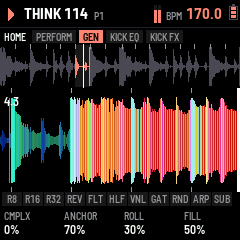
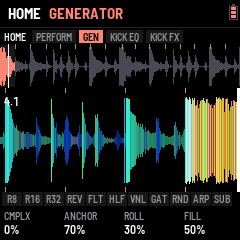
LOAF BREAKER: HOME's PERFORM and GENERATOR show the CDJ waveform by default; HOME held: the slices
Claude-Session: https://claude.ai/code/session_01SezACdoJJxH9cT2JHvLkit

diff --git a/app/ui/main.c b/app/ui/main.c
@@ -336,13 +336,6 @@ static void input(void)
             ui.redraw |= RG_FOOT | RG_BLOCKS;
             page_say();
         }
-        if (ui.cdj && (ui.page == PG_HOME || ui.page == PG_GEN)) {   /* LOAF BREAKER: the CDJ view up: HOME again
-                                          * takes it down (the blocks back, the same part) */
-            ui.cdj = 0u;
-            ui.cdj_skip = 1u;
-            ui.home_combo = 1u;
-            ui.redraw |= RG_BLOCKS;
-        }
     }
     if (ui.home_hold && !(btn & 1u << B_HOME)) {
         ui.home_hold = 0u;
@@ -1159,19 +1152,21 @@ void app_frame(void)
         }
     }
     track_poll(&st);                     /* LOAF BREAKER: a track playing: its next item */
-    {                                    /* LOAF BREAKER: HOME held 0.35 s on PERFORM or GENERATOR: the CDJ view, and
-                                          * it stays (HOME's next part not taken) till HOME again or another page;
-                                          * ~30 times a second */
+    {                                    /* LOAF BREAKER: PERFORM and GENERATOR show the CDJ view (the default);
+                                          * HOME held 0.35 s there: the slice blocks instead, held again: the CDJ
+                                          * view (HOME's next part not taken); ~30 times a second */
         int home = ui.page == PG_HOME || ui.page == PG_GEN;
         if (!(ui.btn & 1u << B_HOME))
             ui.cdj_skip = 0u;
-        if (!ui.cdj && !ui.cdj_skip && home && ui.btn & 1u << B_HOME && now - ui.home_t >= 350u) {
-            ui.cdj = ui.cdj_skip = 1u;
+        if (!ui.cdj_skip && home && ui.btn & 1u << B_HOME && now - ui.home_t >= 350u) {
+            ui.blocks ^= 1u;
+            ui.cdj_skip = 1u;
             ui.home_combo = 1u;
             ui.panel_drawn = 0u;
+            ui.redraw |= RG_BLOCKS;
+            app_say("HOME", ui.blocks ? "SLICES" : "WAVEFORM");
         }
-        if (ui.cdj && !home)
-            ui.cdj = 0u;
+        ui.cdj = (uint8_t)(home && !ui.blocks);
         if (ui.cdj && now - ui.panel_drawn >= 33u) {
             ui.redraw |= RG_BLOCKS;
             ui.panel_drawn = now;

diff --git a/app/ui/common.c b/app/ui/common.c
@@ -91,8 +91,8 @@ static struct {
     uint32_t idle_t;                     /* the last key, button or knob touched (the demo: demo.c) */
     uint32_t lobo_t;                     /* RESET ALL done: the lobotomy screen, since then (0: not showing) */
     uint8_t home_hold, home_combo;       /* HOME held on its page (up alone: its other part); PLAY pressed meanwhile */
-    uint8_t cdj, cdj_skip;               /* LOAF BREAKER: the CDJ view up (HOME held on PERFORM / GENERATOR; HOME again:
-                                          * down); this HOME press done with it */
+    uint8_t cdj, cdj_skip, blocks;       /* LOAF BREAKER: the CDJ view up (PERFORM / GENERATOR's default); this HOME
+                                          * press done with it; the slice blocks instead (HOME held: either) */
     uint32_t home_t;                     /* (when HOME went down) */
     uint8_t fx_hold, fx_turned;          /* FX held on the FX page (up alone: the next slot); a knob turned meanwhile */
     uint8_t fx_page;                     /* the focused slot's part: MAIN, MORE, MOD (an MB COMP: MBP_*) */

diff --git a/docs/PRD.md b/docs/PRD.md
@@ -151,7 +151,7 @@ Based on the behaviour of BB Gen / X0X's break part and ABG's "randomizing algor
 | A-49c | **Effects remembered, and their reset** (LOAF BREAKER): an FX slot turned to another effect keeps the one it left as it was (P1-P3, MIX, MORE, MOD; one memory per effect, saved with the patterns), and an effect turned back to comes back so; the same for each kick layer's effect (each layer, each effect). SEL ×2 on FX: the focused slot's effect to its starting settings (MB COMP's detail too) and forgotten; on EDIT KICK's FX parts: that layer's effect; SEL ×2 again within 4 s undoes it | P1 | *Done; scenario fxmem.txt* |
 | A-49d | **KICK FX** (LOAF BREAKER, HOME's fourth part after KICK EQ): two FX slots on the kick alone (after its EQ, before the THRU / chain routing), the FX library but REVERB and DELAY (one of each in RAM: the chain's); the FX page's views, parts, MOD, MB COMP detail, SEL + FX bypass, FX + ALGO move, SEL ×2 reset; their own effect memory. Engine slots 4, 5 (brk_fx_kick: the same per-sample loop, a mode); shed first when the render runs over | P1 | *Done; engine test, scenario kfx.txt* |
 | A-49e | **COMP and KNOB** (LOAF BREAKER): LIMIT (SEL + K3) replaced by a master **COMP** (its amount the threshold 0 … −36 dB, ratio 1.5–20:1, attack 0.1–30 ms, release 20–800 ms, half the reduction made up, held under full scale; its reduction metered). ENV's fourth part **KNOB**: each SEL + knob function's settings (ALGORITHM / PRESETS / keys 1–4 pick it; K1 its amount): DUCK attack, release and what it ducks (the break, or the drums too); TERROR 2 SUB, SCREAM, PUSH; COMP; TERROR SUB, FIZZ, SUSTAIN (the TERRORs' in the kick's spare bytes: with its memory; 0 as before) | P1 | *Done; scenario knob.txt* |
-| A-49f | **CDJ view** (LOAF BREAKER): HOME held 0.35 s on PERFORM / GENERATOR: y 88–191 shows the mix as it leaves (before MASTER) scrolling right to left, the playhead at the right edge; per column (44100 / BPM samples: 15 a step, 4 beats on screen) its lows (< ~200 Hz), mids, highs (> ~2.5 kHz) as rekordbox RGB and its peak as height; beat ticks, the bar's first lit, BAR.BEAT. The render fills a 240-column ring in the pool (scope, ~1 KB); ~30 frames a second. It stays up when let go; HOME again (or another page) takes it down, HOME's part unchanged | P2 | *Done; scenario cdj.txt* |
+| A-49f | **CDJ view** (LOAF BREAKER): PERFORM and GENERATOR's picture (y 88–191, the default): the mix as it leaves (before MASTER) scrolling right to left, the playhead at the right edge; per column (44100 / BPM samples: 15 a step, 4 beats on screen) its lows (< ~200 Hz), mids, highs (> ~2.5 kHz) as rekordbox RGB and its peak as height; beat ticks, the bar's first lit, BAR.BEAT. The render fills a 240-column ring in the pool (scope, ~1 KB); ~30 frames a second. HOME held 0.35 s: the slice blocks instead, held again: back (HOME's part unchanged) | P2 | *Done; scenario cdj.txt* |
 | A-49g | **No saturation** (LOAF BREAKER): a last guard after COMP (a peak over 0.95 brought down at once, back over ~50 ms; COMP's hard clamp gone); GLOBAL MORE K4 **MAX OUT** (in DROP BRK's place, which is ENV DROP's K3): the output's most at MASTER full, 0 … −12 dB, −3 dB the default | P1 | *Done; scenario maxout.txt (MASTER full, COMP at its most: under −2.5 dBFS; MAX OUT −6: under −5.5)* |
 
 ### 4.5 DSP effects

diff --git a/app/docs/MANUAL.md b/app/docs/MANUAL.md
@@ -105,15 +105,14 @@ back. That touch only ends the demo: it doesn't play a slice or start the break.
 | ALGORITHM | (HOME, MIXER; SEL held: any page) The next or previous break: its name shows at once (amber in the header) and, while playing, it comes in at the next bar (the old one goes quiet for the bar's last 16th meanwhile); stopped, at once. AMEN (The Winstons), DRUMMER (James Brown, Funky Drummer), THE WORM (Jimmy McGriff), THINK (Lyn Collins), COLD SWEAT (James Brown), HOT PANTS (Bobby Byrd), APACHE (Incredible Bongo Band), SPORT (Lightnin' Rod): 2 bars each, played at the tempo you set |
 | MASTER | Volume |
 
-### The CDJ view (HOME held)
+### The CDJ view (HOME)
 
-**Hold HOME** on PERFORM or GENERATOR (a third of a second): the slice blocks give way to what leaves the mix (the
-break, the kick, the drums, the effects; before MASTER) scrolling in from the right, the playhead at the right edge, as
-a track on a CDJ. Each column is coloured as rekordbox's RGB waveform: the lows red, the mids green, the highs blue,
-mixed (a kick reads red to orange, a snare green to cyan, the hats blue), as tall as its peak. 4 beats fill the
-screen; the beats are ticked top and bottom (the bar's first lit) and the bar and beat counted top left. It stays
-when you let go; **HOME again** brings the blocks back, on the same part (neither press moves to the next part).
-Another page takes it down too.
+**PERFORM and GENERATOR show what leaves the mix** (the break, the kick, the drums, the effects; before MASTER)
+scrolling in from the right, the playhead at the right edge, as a track on a CDJ. Each column is coloured as
+rekordbox's RGB waveform: the lows red, the mids green, the highs blue, mixed (a kick reads red to orange, a snare
+green to cyan, the hats blue), as tall as its peak. 4 beats fill the screen; the beats are ticked top and bottom (the
+bar's first lit) and the bar and beat counted top left. **Hold HOME** (a third of a second) for the slice blocks
+instead, hold it again for the waveform; neither moves to HOME's next part.
 
 ![The CDJ view: the break and a kick scrolling in, the playhead at the right edge](img/c_cdj_gen.png "CDJ view")
 
